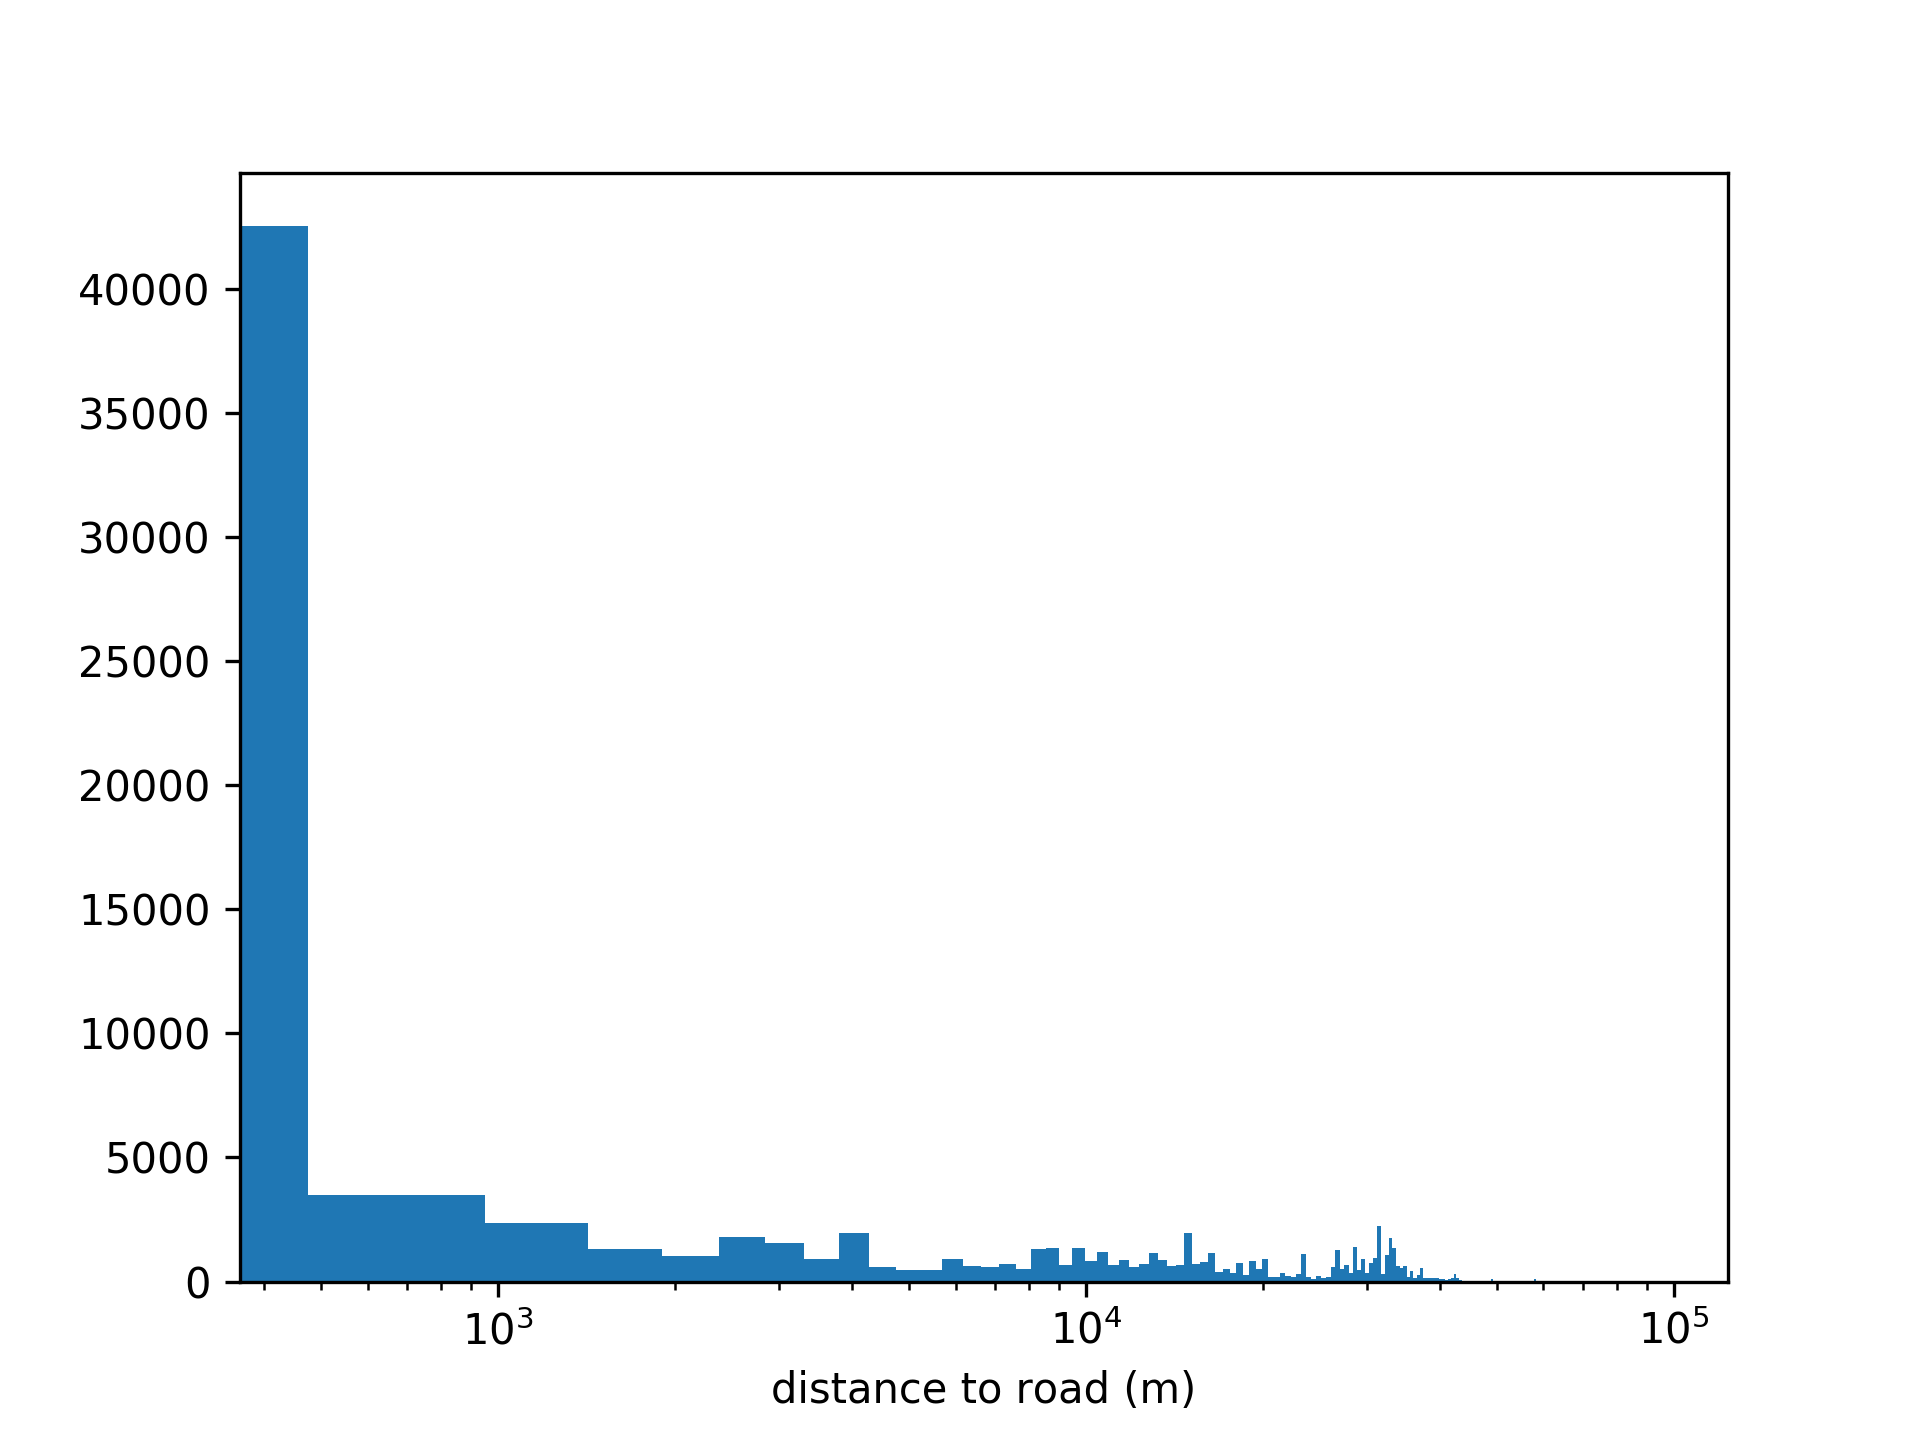
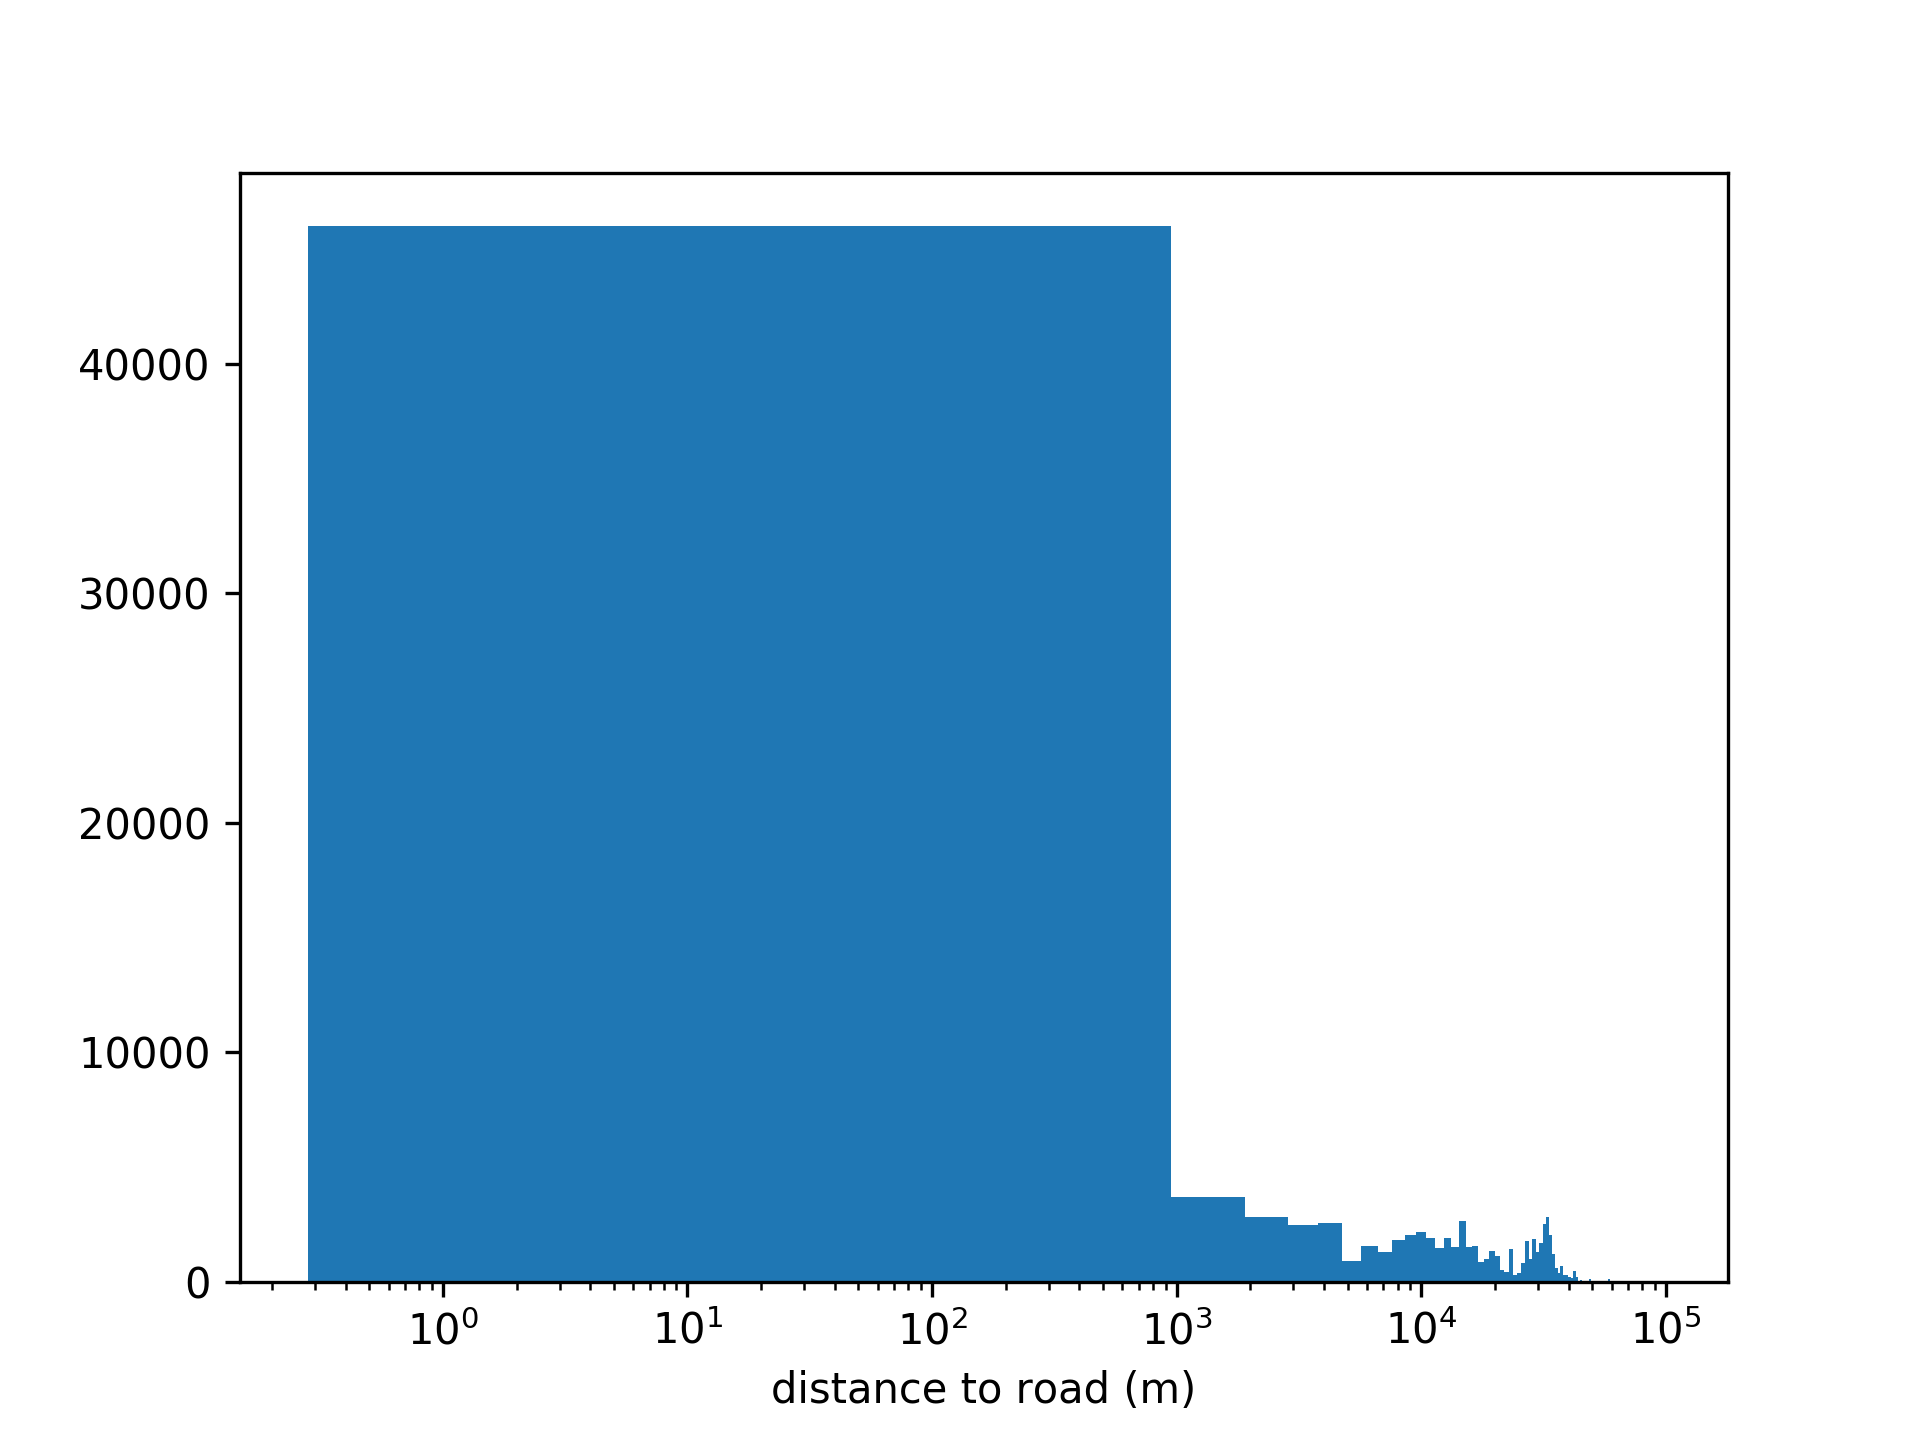
ckdtree nn road method with plot

diff --git a/code_21_dist2roads.py b/code_21_dist2roads.py
@@ -38,20 +38,39 @@ roads = roads.to_crs({'init': 'epsg:32642'})
 unique_locs = unique_locs.to_crs({'init': 'epsg:32642'})
 
 
-c = unique_locs[1:1000].geometry
+# function to simplify multilinestrings
+def simplify_roads(complex_roads):
+    simpleRoads = []
+    for i in range(len(complex_roads.geometry)):
+        feature = complex_roads.geometry.iloc[i]
 
-# make a function based on geopandas distance
-def dist_to_road(point, roads):
-    return roads.distance(point).min()
+        if feature.geom_type == "LineString":
+            simpleRoads.append(feature)
+        elif feature.geom_type == "MultiLineString":
+            for road_level2 in feature:
+                simpleRoads.append(road_level2)
+    return simpleRoads
+
+
+# function to use ckdtrees for nearest point finding
+def ckdnearest(gdfA, gdfB):
+    A = np.concatenate(
+        [np.array(geom.coords) for geom in gdfA.geometry.to_list()])
+    simplified_features = simplify_roads(gdfB)
+
+    B = [np.array(geom.coords) for geom in simplified_features]
+    B = np.concatenate(B)
+    ckd_tree = cKDTree(B)
+    dist, idx = ckd_tree.query(A, k=1)
+
+    return dist
 
 
 # get distance to nearest road
-unique_locs['min_dist_to_lines'] = unique_locs.geometry.apply(dist_to_road, args=(roads,))
-unique_locs[1:3].geometry.apply(dist_to_road, args=(roads,))
+unique_locs['dist_road'] = ckdnearest(unique_locs, roads)
 
 # write to file
 unique_locs = pd.DataFrame(unique_locs.drop(columns='geometry'))
-unique_locs = unique_locs.drop(columns='min_dist_to_lines')
 unique_locs['dist_road'] = round(unique_locs['dist_road'], 2)
 unique_locs.to_csv(path_or_buf="data/locs_dist_to_road.csv", index=False)
 
@@ -59,10 +78,35 @@ unique_locs.to_csv(path_or_buf="data/locs_dist_to_road.csv", index=False)
 chkCovars = chkCovars.merge(unique_locs, on=['latitude', 'longitude', 'coordId'])
 
 # make histogram plots
-chkCovars['dist_road'].hist(bins=200, grid=False, )
+chkCovars['dist_road'].hist(bins=100, grid=False, )
 plt.xlabel("distance to road (m)")
 plt.xscale('log')
 
 plt.savefig("figs/fig_dist_roads.png", dpi=300)
+
+# sanity check
+# read in unique locs with dist to road
+unique_locs = pd.read_csv("data/locs_dist_to_road.csv")
+# make geodata
+unique_locs = gpd.GeoDataFrame(
+   unique_locs,
+    geometry=gpd.points_from_xy(unique_locs.longitude, unique_locs.latitude))
+unique_locs.crs = {'init' :'epsg:4326'}
+unique_locs = unique_locs.to_crs({'init': 'epsg:32642'})
+
+# read in hills
+hills = gpd.read_file("data/spatial/hillsShapefile/Nil_Ana_Pal.shp")
+hills = hills.to_crs({'init': 'epsg:32642'})
+
+# plot
+base = roads.plot(linewidth=0.3)
+unique_locs.plot(ax=base, column="dist_road", markersize=0.2,
+                 cmap="gnuplot2", legend=True,
+                 legend_kwds={'label': "nearest road (m)",
+                              'orientation': "horizontal"})
+hills.geometry.boundary.plot(ax=base, linewidth=0.8, edgecolor="red",
+                             color=None)
+
+plt.savefig("figs/map_dist_roads.png", dpi=300)
 
 # ends here
